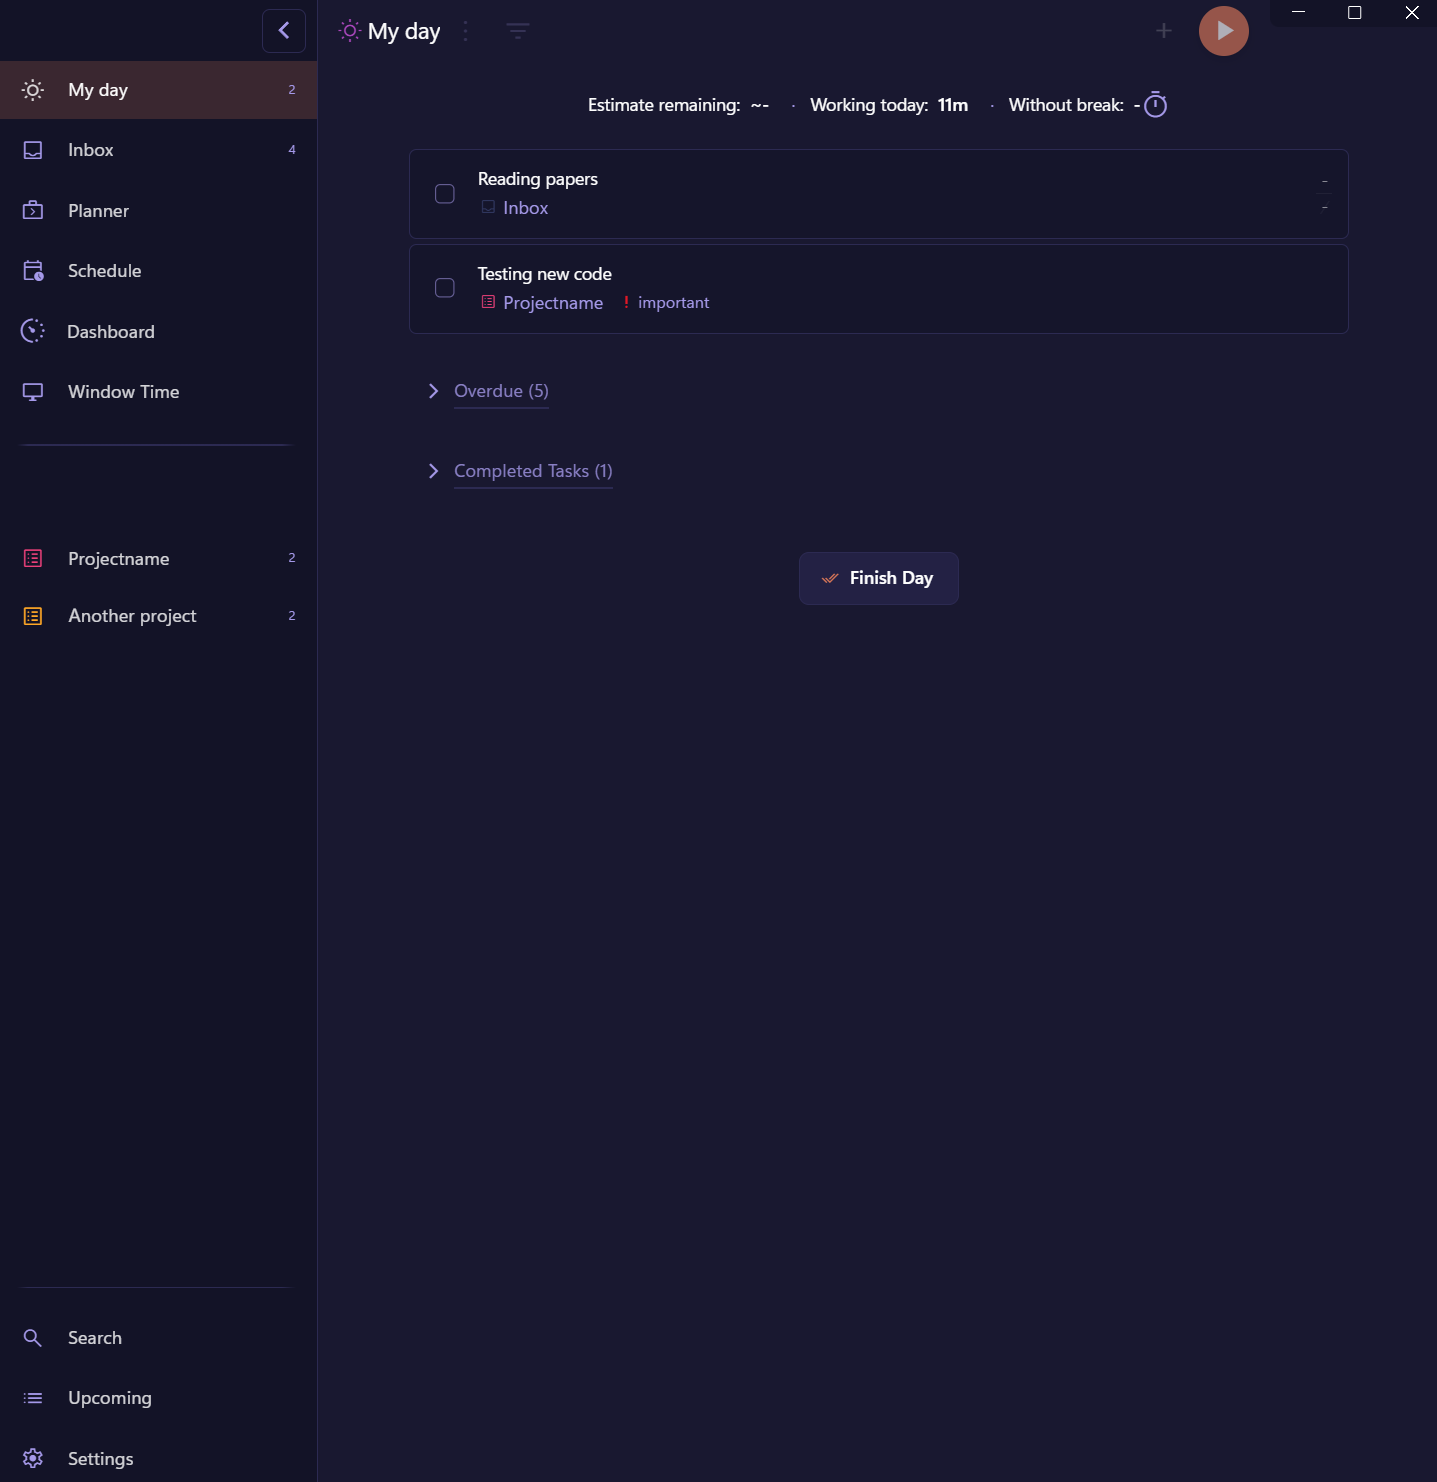
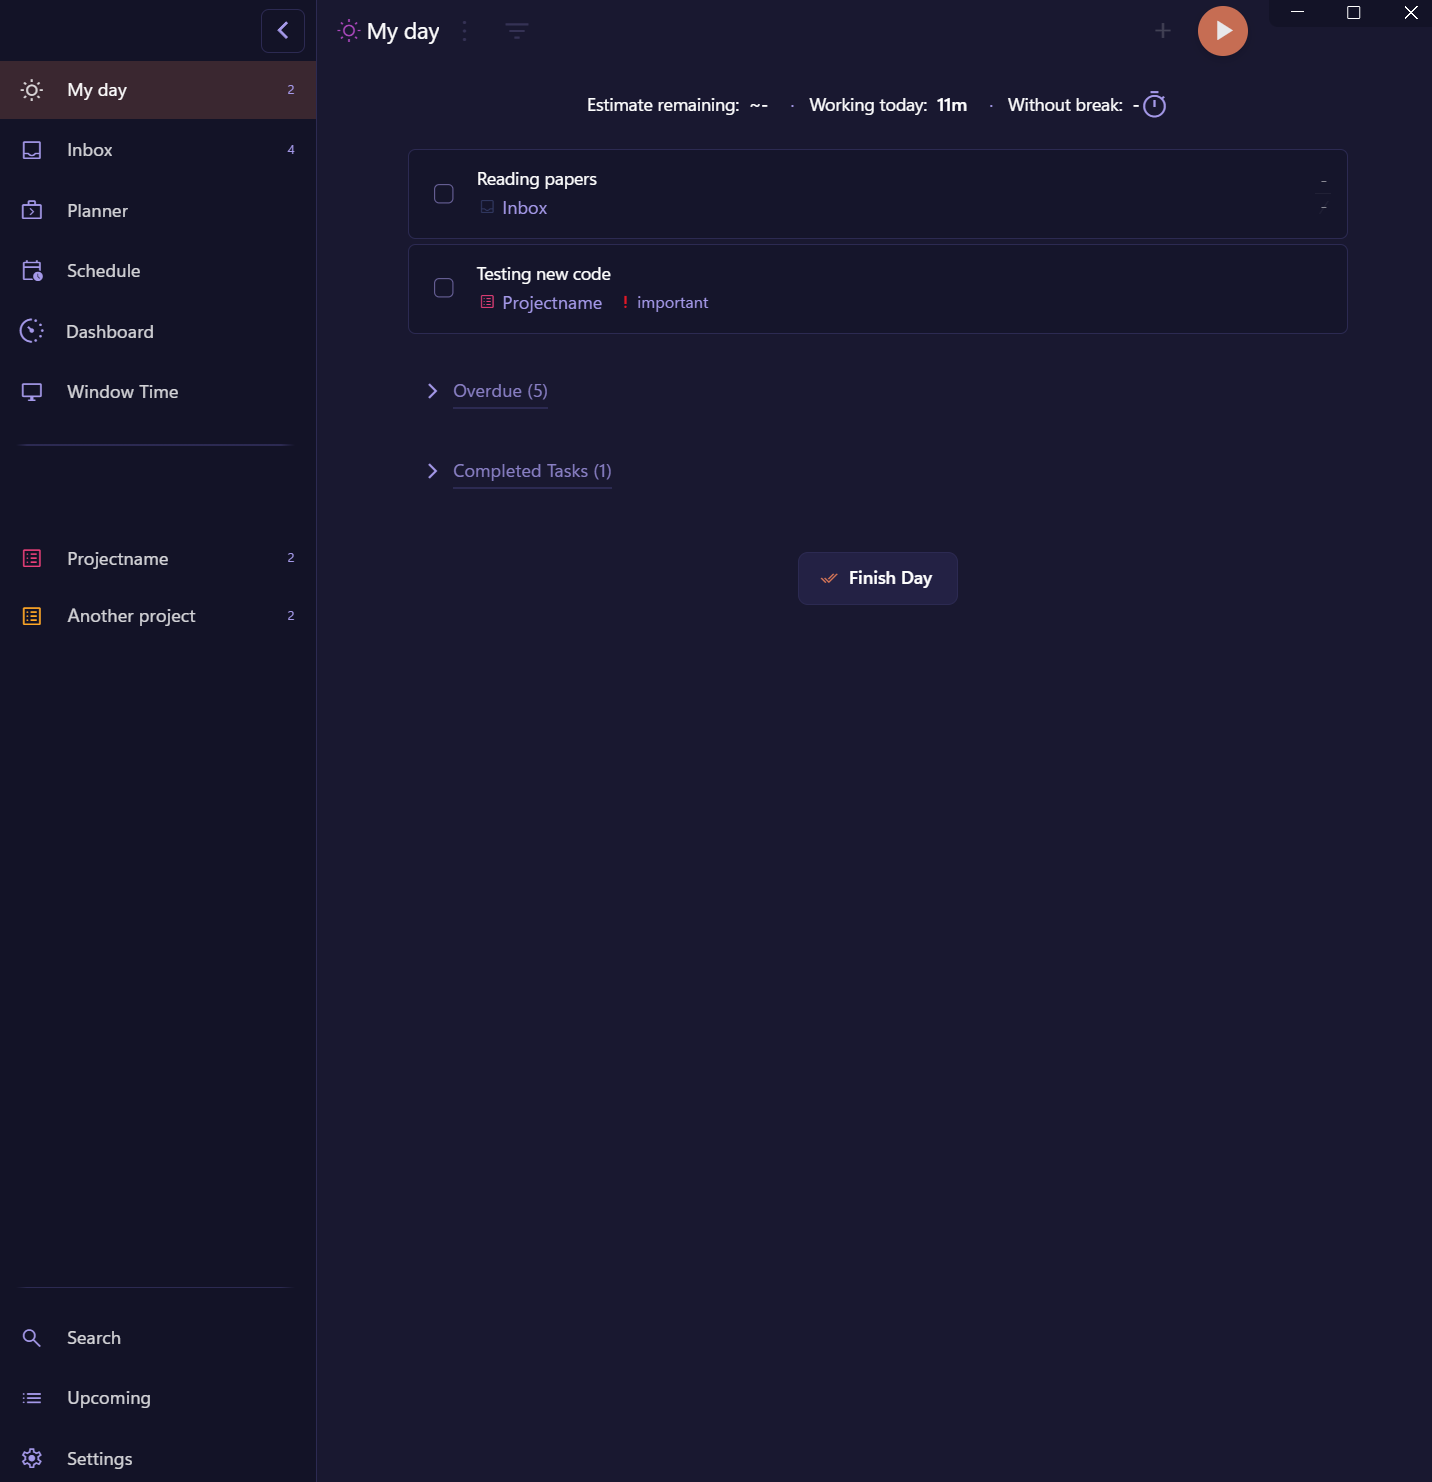
Rest the play button at 0.9 in the two purple files
Paper Purple and Shades of Purple rested the play button at 0.65 on the dark
page and stepped it to 0.75 while a timer ran. Both now rest at 0.9, a shade
off full, and the tracked state goes with it: between 0.9 and the full opacity
the pointer brings there is no room left for a third weight, and the pulse ring
the app draws already says the timer is running. Minimal Tokyo is untouched at
0.75, where rest and a running timer were always one figure.

The light figures stand as they were — 0.95, 0.92 and 0.8 — so in Shades of
Purple the dark half now rests above the light one, which is the one file where
both slots carry a dark palette.

Screenshots of the two purple looks alongside.

diff --git a/shades-of-purple.css b/shades-of-purple.css
@@ -2980,9 +2980,8 @@ button.play-btn mat-icon {
 /* The play button rests below full and comes to full under the pointer.
  *
  * `--play-button-idle-opacity` is what it rests at. Everything below is that
- * one figure, restated in the two places it differs — the light page, and, on
- * the dark one, a timer that is running. The opacity, the transition and the
- * lift back to full are stated once, here.
+ * one figure, restated in the one place it differs — the light page. The
+ * opacity, the transition and the lift back to full are stated once, here.
  *
  * The tracked state used to be exempt from all of this, on the reasoning that a
  * timer you have started should never step back. The pulse ring the app draws
@@ -3000,17 +2999,17 @@ nav.action-nav-right
   play-button
   .play-btn-wrapper.play-btn-wrapper
   button.play-btn:not(:disabled):not(.mat-mdc-button-disabled) {
-  --play-button-idle-opacity: 0.65;
+  --play-button-idle-opacity: 0.9;
   opacity: var(--play-button-idle-opacity) !important;
   transition: opacity 140ms var(--ani-standard-timing) !important;
 }
 
 /* Light mode carries its own figure. One opacity over two backgrounds does not
-   read as one weight: 0.65 on the dark page is a button stepping back, and
-   the same figure on the light page is a button going faint. 0.8 lands at
-   the felt weight the dark half has here. Each file states its own: 0.95 in
-   `paper-purple.css`, 0.92 in `minimal-tokyo.css`, 0.8 in
-   `shades-of-purple.css`.
+   read as one weight, which is why each file names its own: 0.95 in
+   `paper-purple.css`, 0.92 in `minimal-tokyo.css`, 0.8 here. This theme sits
+   lower than the other two because its light slot holds a dark palette as
+   well: what the figure has to carry there is a second dark page, not a light
+   one.
 
    Only the variable is restated — the opacity, the transition and the lift to
    full are the rule above's, unchanged. */
@@ -3022,18 +3021,14 @@ body:not(.isDarkTheme)
   --play-button-idle-opacity: 0.8;
 }
 
-/* Dark, with a timer running: a step forward from rest. A running timer is not
-   at rest, and on the dark page there is room for that difference to read.
-
-   The light half needs no rule of its own — it already rests near enough to
-   full that a tracked button and an idle one are the same weight there. */
-body.isDarkTheme
-  nav.action-nav-right
-  play-button
-  .play-btn-wrapper.play-btn-wrapper:has(.pulse-circle)
-  button.play-btn:not(:disabled):not(.mat-mdc-button-disabled) {
-  --play-button-idle-opacity: 0.75;
-}
+/* Dark used to step forward from rest while a timer ran, at 0.75 against a
+   0.65 rest. Rest is 0.9 now, a shade off full, and the step has nowhere left
+   to go: the rule is gone. The pulse ring the app draws is what says the timer
+   is running, and the button need not say it a second time. No file carries
+   that step any more — `minimal-tokyo.css` never had one, where dark rest and
+   a running timer are both 0.75, and `paper-purple.css` drops it alongside
+   this one. `body.isDarkTheme … .play-btn-wrapper:has(.pulse-circle)` is the
+   selector to bring back if the tracked state should stand apart here again. */
 
 /* The pointer brings it to full in every state: that is feedback on the
    control, not a statement about the timer. */

diff --git a/paper-purple.css b/paper-purple.css
@@ -2978,9 +2978,8 @@ button.play-btn mat-icon {
 /* The play button rests below full and comes to full under the pointer.
  *
  * `--play-button-idle-opacity` is what it rests at. Everything below is that
- * one figure, restated in the two places it differs — the light page, and, on
- * the dark one, a timer that is running. The opacity, the transition and the
- * lift back to full are stated once, here.
+ * one figure, restated in the one place it differs — the light page. The
+ * opacity, the transition and the lift back to full are stated once, here.
  *
  * The tracked state used to be exempt from all of this, on the reasoning that a
  * timer you have started should never step back. The pulse ring the app draws
@@ -2998,15 +2997,15 @@ nav.action-nav-right
   play-button
   .play-btn-wrapper.play-btn-wrapper
   button.play-btn:not(:disabled):not(.mat-mdc-button-disabled) {
-  --play-button-idle-opacity: 0.65;
+  --play-button-idle-opacity: 0.9;
   opacity: var(--play-button-idle-opacity) !important;
   transition: opacity 140ms var(--ani-standard-timing) !important;
 }
 
 /* Light mode carries its own figure. One opacity over two backgrounds does not
-   read as one weight: 0.65 on the dark page is a button stepping back, and
-   the same figure on the light page is a button going faint. 0.95 lands at
-   the felt weight the dark half has here. Each file states its own: 0.95 in
+   read as one weight: 0.9 on the dark page is a button a shade below full, and
+   the same figure on the light page is a button not quite arrived. 0.95 lands
+   at the felt weight the dark half has here. Each file states its own: 0.95 in
    `paper-purple.css`, 0.92 in `minimal-tokyo.css`, 0.8 in
    `shades-of-purple.css`.
 
@@ -3020,18 +3019,14 @@ body:not(.isDarkTheme)
   --play-button-idle-opacity: 0.95;
 }
 
-/* Dark, with a timer running: a step forward from rest. A running timer is not
-   at rest, and on the dark page there is room for that difference to read.
-
-   The light half needs no rule of its own — it already rests near enough to
-   full that a tracked button and an idle one are the same weight there. */
-body.isDarkTheme
-  nav.action-nav-right
-  play-button
-  .play-btn-wrapper.play-btn-wrapper:has(.pulse-circle)
-  button.play-btn:not(:disabled):not(.mat-mdc-button-disabled) {
-  --play-button-idle-opacity: 0.75;
-}
+/* Dark used to step forward from rest while a timer ran, at 0.75 against a
+   0.65 rest. Rest is 0.9 now, a shade off full, and the step has nowhere left
+   to go: the rule is gone. The pulse ring the app draws is what says the timer
+   is running, and the button need not say it a second time. No file carries
+   that step any more — `minimal-tokyo.css` never had one, where dark rest and
+   a running timer are both 0.75, and `shades-of-purple.css` drops it alongside
+   this one. `body.isDarkTheme … .play-btn-wrapper:has(.pulse-circle)` is the
+   selector to bring back if the tracked state should stand apart here again. */
 
 /* The pointer brings it to full in every state: that is feedback on the
    control, not a statement about the timer. */
